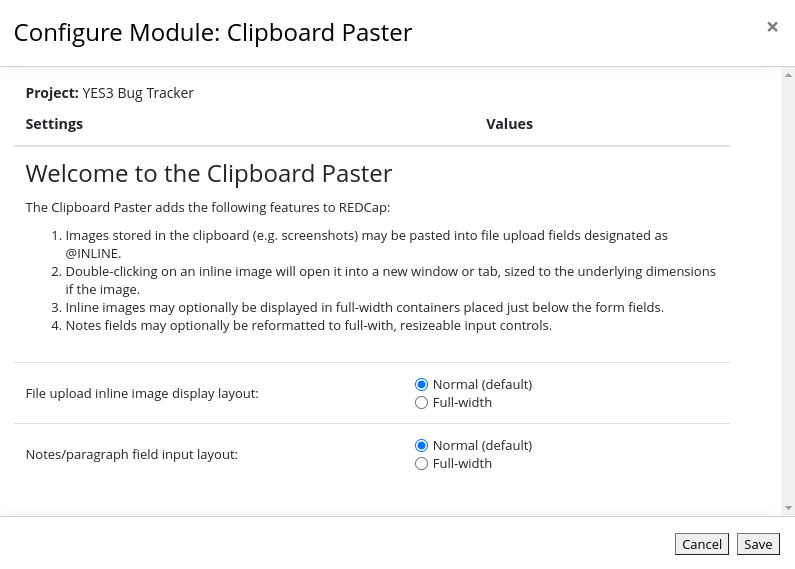
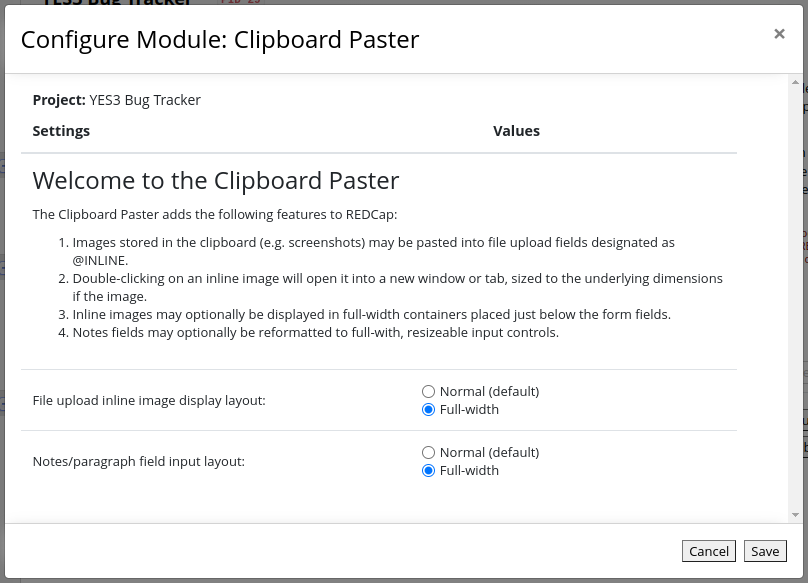
README

Changed region(s): [[0.0, 0.0, 1.0, 1.0], [0.5132, 0.7469, 0.6642, 0.8366]]

diff --git a/README.md b/README.md
@@ -33,9 +33,11 @@ As you see, the only user interface change is the addition of the 'Paste image' 
 
 Here I have (1) copied an image (from a website, in this case, using 'copy image') and then (2) clicked on the 'Paste image' link. As you see, the image has been stored and is now displayed as an inline image. *Note that the 'Paste image' link is still present, except that it has been reduced to an icon.* The link label has been crowded out by the newly-rendered 'Upload new version', 'remove file' and 'Send-it' links.
 
+Note that in this example, I clicked on an image on a web page, right-clicked and selected 'copy image' to place the image in the clipboard. The more common use-case for this feature will be to use a screen grabber like the Windows 'snipping' tool, the PrtSc button or the powerful Greenshot tool (https://getgreenshot.org/). Just take your shot and click the Paste image link!
+
 ![image of a form after pasting an image](images/example2.png)
 
-Next I'll demonstrate the optional form rendering enhancements, but in passing I will first double-click on the inline image. As you see, it opens into a separate browser window sized to fit the original image. Now I can more closely examine the image, or move it to another screen as I look over the bug report.
+Next I'll demonstrate the optional form rendering enhancements, but in passing I will first double-click on the inline image. As you see, it opens into a separate browser window sized to fit the original image. Now I can more closely examine the image, or move it to another screen as I look over the bug report. Note that this feature is enabled for all inline fields, not just those that contain pasted images.
 
 ![image of a form after double-clicking on an inline image](images/example3.png)
 
@@ -43,9 +45,31 @@ Next I'll demonstrate the optional form rendering enhancements, but in passing I
 
 ### The EM configuration settings
 
-The optional enhancements are enabled through the usual EM conguration link, as shown below.
+The optional enhancements are enabled through the usual EM conguration link, as shown below. Here I have set both to 'enhanced', meaning that I want full-width renderings of both inline images and notes fields.
 
 ![image of the EM configuration settions](images/example4.png)
+
+... and here is what the full treatment looks like! As you see, the inline image now occupies a full row on the form, as do all text fields. I have resized the 'steps to reproduce the error' notes box by dragging the lower-right corner down.
+
+![image of the EM configuration settions](images/example5.png)
+
+## Error handling
+
+### Trying to paste an empty clipboard, or one with something other than an image in it
+
+The clipboard can store any sort of object, and so if the last thing you copied was not an image, or if there's nothing in the clipboard, you will behold this message:
+
+![image of an error message](images/example5.png)
+
+The message box will go away after 10 seconds, or if you click on it.
+
+All 'handled' Clipboard Paster errors will generate messages as above. If an unhandled condition is encountered, please get back to us at redcap@yale.edu.
+
+
+
+
+
+
 
 
 
